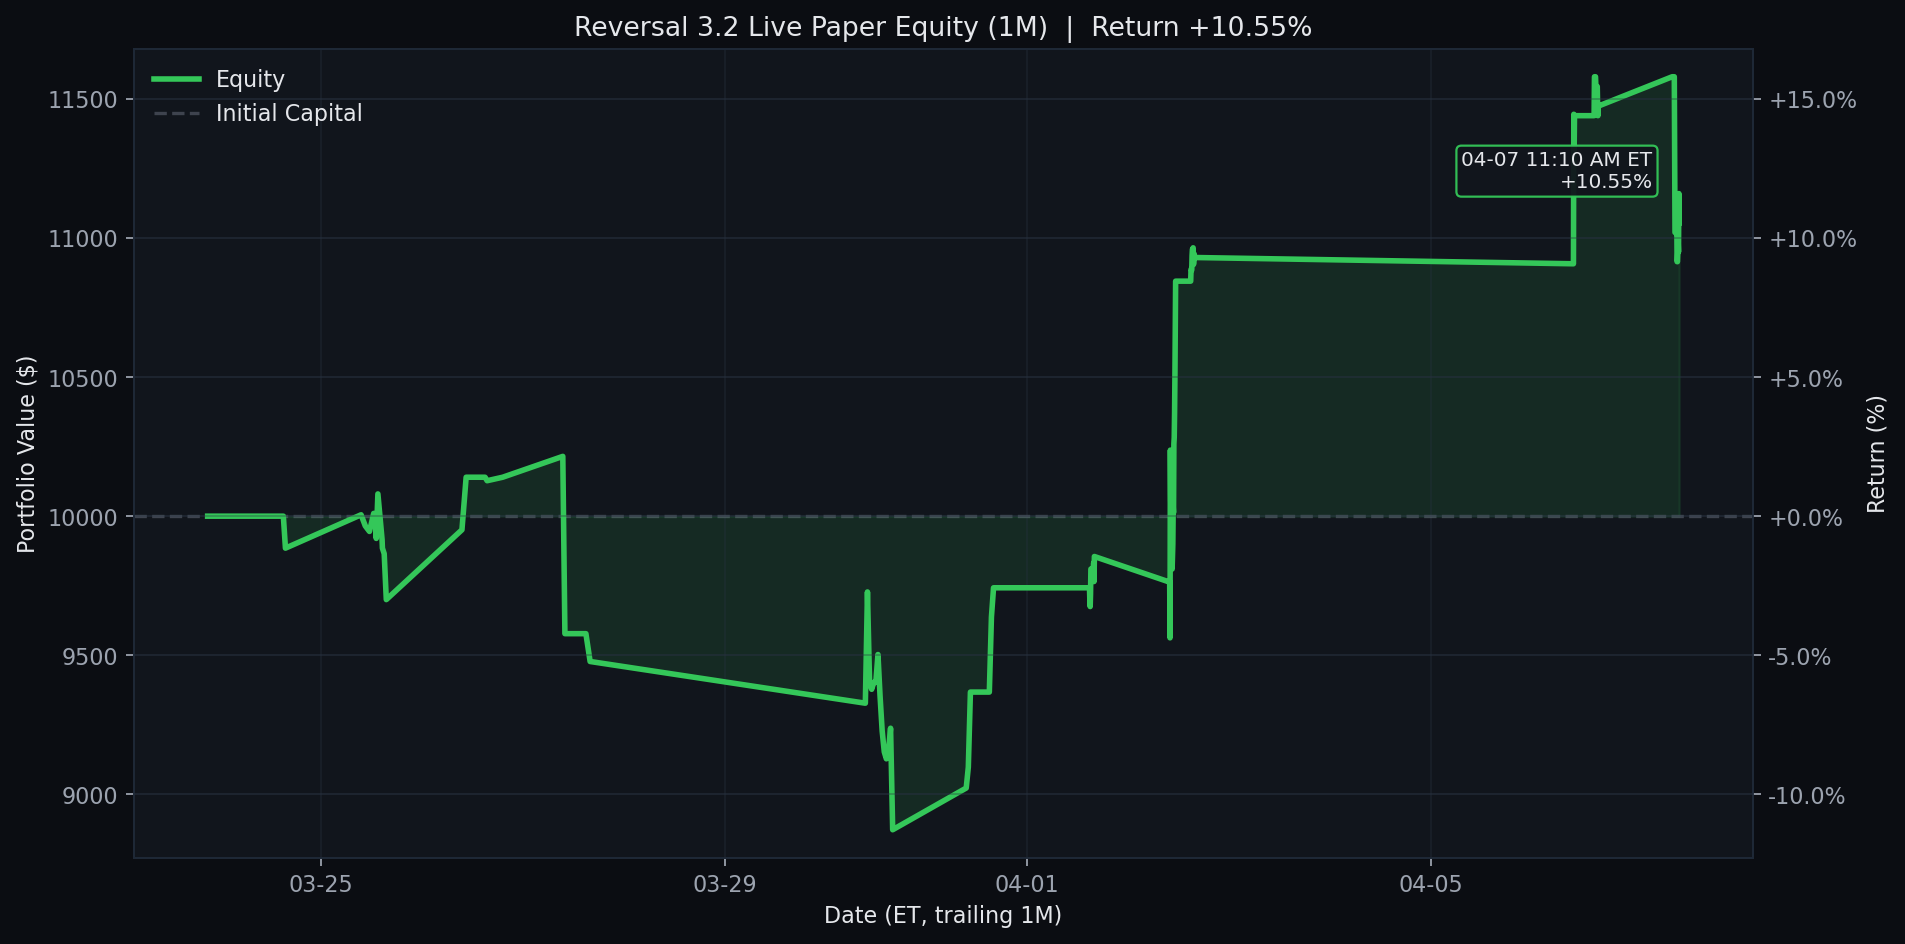
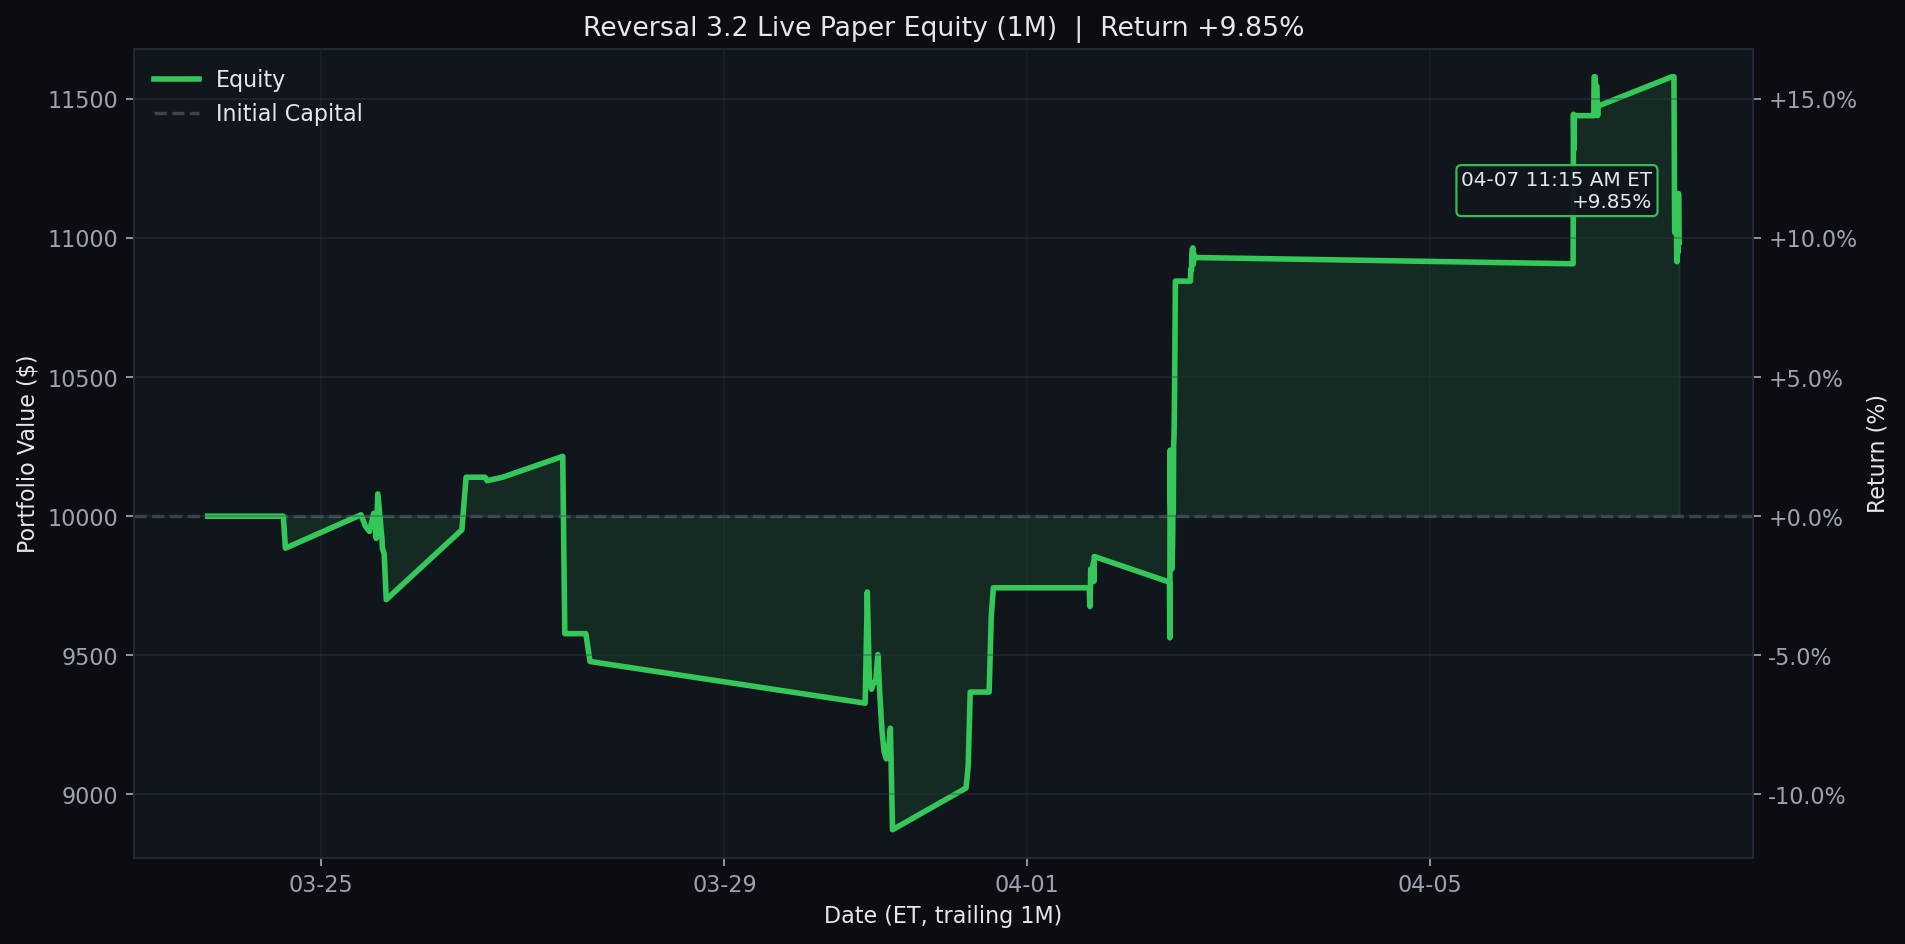
Update Reversal 3.2 live paper test 2026-04-07 11:15 ET

Changed region(s): [[0.3097, 0.0, 0.6814, 0.0614], [0.7433, 0.1536, 0.8672, 0.2458], [0.7433, 0.9216, 0.7743, 0.9523]]

diff --git a/results/reversal_3_2_live/README.md b/results/reversal_3_2_live/README.md
@@ -1,7 +1,7 @@
 # Reversal 3.2 Live Paper Test
 
-Last updated (ET): `2026-04-07 11:10:00 EDT`
-Last processed slot: `manage_1100`
+Last updated (ET): `2026-04-07 11:15:05 EDT`
+Last processed slot: `manual_refresh`
 
 ## Active Configuration
 
@@ -20,16 +20,16 @@ Last processed slot: `manage_1100`
 ## Portfolio Snapshot
 
 - Cash: `$6,260.00`
-- Equity: `$11,055.00`
+- Equity: `$10,985.00`
 - Realized PnL: `$1,440.00`
-- Unrealized PnL: `$-385.00`
+- Unrealized PnL: `$-455.00`
 - Open positions: `1`
 
 ## Open Positions
 
 ```text
 ticker    contract_symbol entry_trade_date  business_days_held  contracts  cash_spent  current_position_value  entry_option_price  current_option_price  entry_spot  current_spot  unrealized_pnl  unrealized_return_pct  success_rate  matched_signals  current_drop_pct  entry_iv_pct  current_iv_pct  rolling_sigma_20d_pct
-   HON HON260515C00230000       2026-04-06                   1          7      5180.0                  4795.0                 7.4                  6.85      227.61        223.33          -385.0                  -7.43         100.0               20               0.8         28.89           34.14                  20.57
+   HON HON260515C00230000       2026-04-06                   1          7      5180.0                  4725.0                 7.4                  6.75      227.61        223.68          -455.0                  -8.78         100.0               20               0.8         28.89           33.28                  20.57
 ```
 
 ## Today's Closed Trades (2026-04-07)
@@ -40,18 +40,18 @@ _None_
 
 ```text
 ticker  success_rate_%  matched_signals  current_drop_%  target_rebound_$  target_price  rolling_sigma_20d_%  call_candidate
-   WDC           97.22               36            1.05              2.23        303.19                83.06            True
-  REGN           95.65               23            1.42              7.59        759.79                25.24            True
-  MRVL           95.00               20            2.90              2.23        108.56                70.84            True
-  NVDA           95.00               20            1.92              2.39        176.62                33.70            True
-  SBUX           94.44               36            0.60              0.40         94.61                40.32            True
-  MPWR           90.00               30            1.61             13.33       1174.32                51.99            True
-  PCAR           89.47               38            0.62              0.51        118.10                21.97            True
-  DXCM           88.89               45            0.66              0.29         63.09                29.92            True
-  DDOG           88.89               27            2.16              1.76        115.74                49.06            True
-  FAST           88.46               26            0.95              0.30         45.74                20.98            True
-  COST           88.24               34            0.52              3.72       1016.96                13.04            True
-  UPRO           88.24               17            3.21              2.26         99.77                53.86            True
+  MRVL           96.00               25            2.46              1.88        108.70                70.84            True
+  REGN           95.00               20            1.55              8.30        759.48                25.24            True
+  SBUX           94.29               35            0.66              0.44         94.59                40.32            True
+  NVDA           91.67               24            1.55              1.93        176.81                33.70            True
+  MPWR           90.91               33            1.36             11.26       1175.21                51.99            True
+  UPRO           90.91               22            2.57              1.81         99.96                53.86            True
+  COST           90.32               31            0.61              4.37       1016.68                13.04            True
+  ORLY           89.47               38            0.66              0.43         91.95                23.11            True
+  PCAR           89.19               37            0.66              0.54        118.09                21.97            True
+  DDOG           88.89               27            2.09              1.71        115.77                49.06            True
+  VRTX           88.46               26            1.45              4.41        432.41                40.01            True
+  DXCM           88.10               42            0.93              0.41         63.03                29.92            True
 ```
 
 ## Recent Events
@@ -77,20 +77,20 @@ Each chart is generated from the same live equity series with no-lookahead marks
 <details>
 <summary><strong>1D</strong></summary>
 
-![Reversal 3.2 Live Equity 1D](../../assets/reversal_3_2_live_equity_1d.png?v=20260407111000)
+![Reversal 3.2 Live Equity 1D](../../assets/reversal_3_2_live_equity_1d.png?v=20260407111505)
 
 </details>
 
 <details open>
 <summary><strong>1W</strong></summary>
 
-![Reversal 3.2 Live Equity 1W](../../assets/reversal_3_2_live_equity.png?v=20260407111000)
+![Reversal 3.2 Live Equity 1W](../../assets/reversal_3_2_live_equity.png?v=20260407111505)
 
 </details>
 
 <details>
 <summary><strong>1M</strong></summary>
 
-![Reversal 3.2 Live Equity 1M](../../assets/reversal_3_2_live_equity_1m.png?v=20260407111000)
+![Reversal 3.2 Live Equity 1M](../../assets/reversal_3_2_live_equity_1m.png?v=20260407111505)
 
 </details>

diff --git a/README.md b/README.md
@@ -3,10 +3,10 @@
 <!-- reversal-3.2-live:start -->
 ## Reversal 3.2 Live Paper Test
 
-- Last updated (ET): `2026-04-07 11:10:00 EDT`
-- Equity: `$11,055.00` | Realized: `$1,440.00` | Unrealized: `$-385.00` | Open positions: `1`
+- Last updated (ET): `2026-04-07 11:15:05 EDT`
+- Equity: `$10,985.00` | Realized: `$1,440.00` | Unrealized: `$-455.00` | Open positions: `1`
 - Today closed trades: `0`
-- Current slot: `manage_1100`
+- Current slot: `manual_refresh`
 - Universe: `qqq_plus_leverage_etfs`
 - Chart windows: `1D / 1W / 1M` (default open panel: `1W`)
 
@@ -14,27 +14,27 @@
 
 ```text
 ticker    contract_symbol  contracts  cash_spent  current_position_value  current_option_price  unrealized_pnl  unrealized_return_pct  business_days_held
-   HON HON260515C00230000          7      5180.0                  4795.0                  6.85          -385.0                  -7.43                   1
+   HON HON260515C00230000          7      5180.0                  4725.0                  6.75          -455.0                  -8.78                   1
 ```
 
 <details>
 <summary><strong>1D</strong></summary>
 
-![Reversal 3.2 Live Equity 1D](assets/reversal_3_2_live_equity_1d.png?v=20260407111000)
+![Reversal 3.2 Live Equity 1D](assets/reversal_3_2_live_equity_1d.png?v=20260407111505)
 
 </details>
 
 <details open>
 <summary><strong>1W</strong></summary>
 
-![Reversal 3.2 Live Equity 1W](assets/reversal_3_2_live_equity.png?v=20260407111000)
+![Reversal 3.2 Live Equity 1W](assets/reversal_3_2_live_equity.png?v=20260407111505)
 
 </details>
 
 <details>
 <summary><strong>1M</strong></summary>
 
-![Reversal 3.2 Live Equity 1M](assets/reversal_3_2_live_equity_1m.png?v=20260407111000)
+![Reversal 3.2 Live Equity 1M](assets/reversal_3_2_live_equity_1m.png?v=20260407111505)
 
 </details>
 
